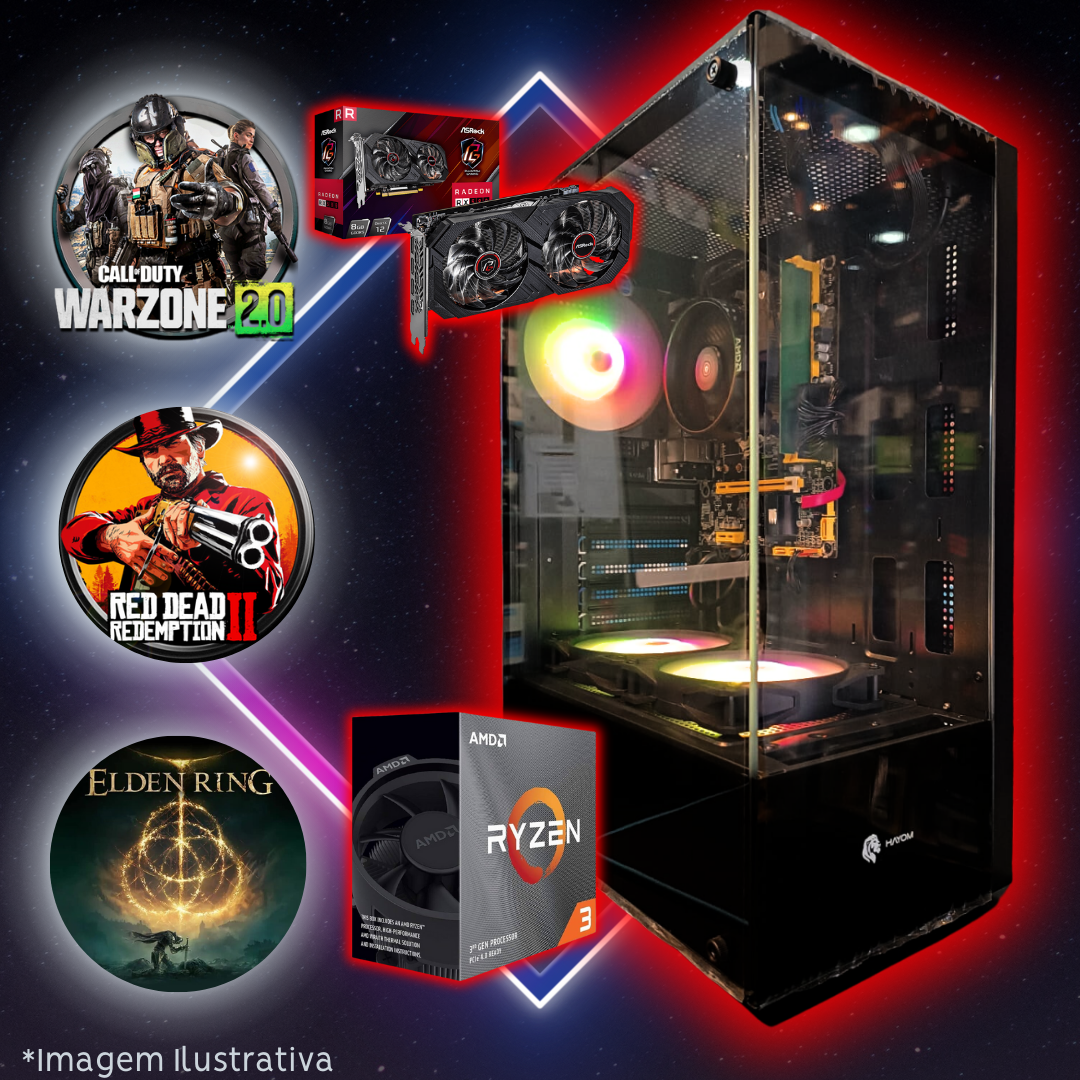
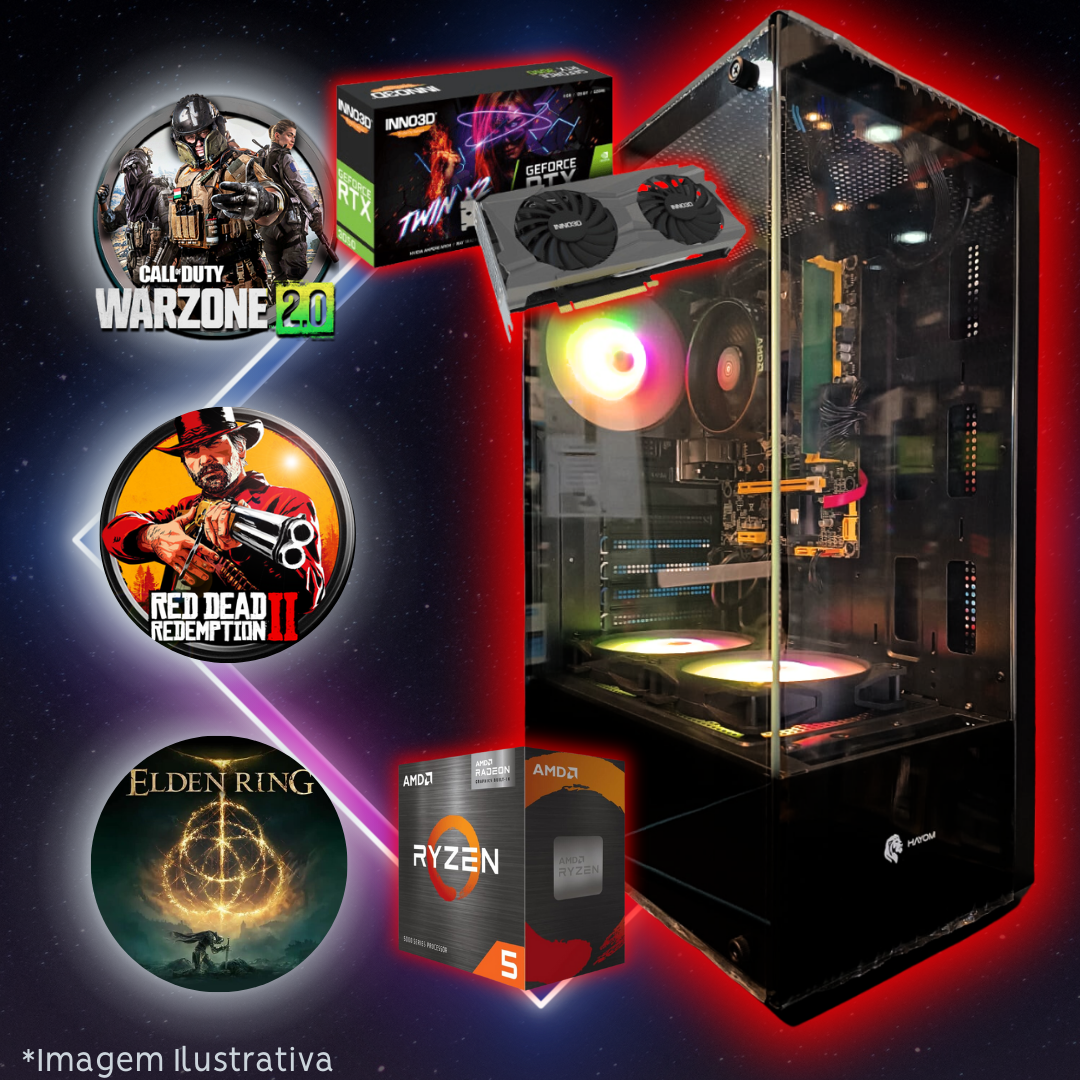
Setup Ryzen 4500 + RTX 3050 ADDED

diff --git a/src/routes/setup/+page.svelte b/src/routes/setup/+page.svelte
@@ -51,23 +51,30 @@
       text: "💥 LEAGUE OF LEGENDS\n🌎 MINECRAFT\n🟥 ROBLOX\n🔫 VALORANT\n🔫 CSGO 2\n🔫 WARZONE\n🦙 FORTNITE\n\n*Placa Mãe:* A520\n*Processador:* RYZEN 5 4500\n*Memória RAM:* 2x8GB(16GB) DDR4\n*Placa de Vídeo:* GTX 1650 4GB\n*Armazenamento:* SSD 480GB\n*Gabinete:* GAMER C/ 3 FANS RGB RGB FRONTAIS\n*Fonte:* 500W\n+ 🖥 Monitor de 17' POL. *NOVO*\n+ Kit Gamer(Teclado, Mouse, Mousepad e Headset)\n\nPOR APENAS *R$ 4.260,00* em até 10x sem juros!"
     },
 
+    // R$ 5.290,00
+    {
+      title: "Nº8 - SETUP RYZEN 4500 + RTX 3050 6GB",
+      image: "SETUP-5290.png",
+      text: "💥 LEAGUE OF LEGENDS\n🌎 MINECRAFT\n🟥 ROBLOX\n🔫 VALORANT\n🔫 WARZONE\n🔫 CSGO 2\n🦙 FORTNITE\n 🐎Red Dead Redemption 2\n🗡Elden Ring\n\n*Processador:* RYZEN 5 4500\n*Placa Mãe:* A520\n*Memória RAM:* 16GB DDR4 2666Hz\n*Placa de Vídeo:* RTX 3050 6GB\n*Armazenamento:* SSD 480GB\n*Gabinete:* GAMER C/ 3 FANS RGB FRONTAIS\n*Fonte:* 500W\n +🖥 MONITOR (LC0042) 19' 75Hz Bluecase\n + KIT Gamer Completo(Teclado, Headset, Mouse e Mousepad)\n\nPOR APENAS *R$ 5.290,00* em até 10x sem juros!",
+    },
+
     // R$7.990,00
     {
-      title: "Nº8 - 🖱SETUP GAMER RYZEN 5 5600",
+      title: "Nº9 - 🖱SETUP GAMER RYZEN 5 5600",
       image: "SETUP-7990.png",
       text: "💥 LEAGUE OF LEGENDS\n🌎 MINECRAFT\n🟥 ROBLOX\n🔫 VALORANT\n🔫 WARZONE\n🔫 CSGO 2\n🦙 FORTNITE\n\n*Processador:* RYZEN 5 5600\n*Placa Mãe:* B450MX\n*Memória RAM:* 1x16GB DDR4 Fury Beast RGB\n*Placa de Vídeo:* RTX 3060 12GB\n*Armazenamento:* SSD 480GB\n*Gabinete:* GAMER C/ 3 FANS RGB FRONTAIS\n*Fonte:* 550W 80PLUS\n+ 🖥 Monitor de 19' Pol. 75Htz\n+ + Kit Gamer(Teclado, Mouse, Mousepad e Headset)\n\nPOR APENAS *R$ 7.990,00* em até 10x sem juros!",
     },
 
     // R$11.190,00
     {
-      title: "Nº9 - 🖱SETUP GAMER RYZEN 5 4500",
+      title: "Nº10 - 🖱SETUP GAMER RYZEN 5 4500",
       image: "SETUP-11190.png",
       text: "💥 FREE FIRE\n🌎 ARK SURVIVE\n🔫 GTA RP\n🔫 VALORANT\n🔫 CSGO 2\n🔫 WARZONE\n🦙 FORTNITE\n\n*Placa Mãe:* Duex B550\n*Prcessador:* RYZEN 5 4500\n*Memória RAM:* 2x8GB(16GB) DDR4 RISE MODE 3200Mhz\n*Placa de Vídeo:* RTX 3050 6GB\n*Armazenamento:* SSD 480GB\n*Gabinete:* GAMER Fortrek C/ 3 FANS RGB FRONTAIS Controláveis\n*Fonte:* 500W Branca\n+ 🖥 Monitor de 27' POL. REDRAGON 180Gtz *BRANCO* PLANO & MONITOR 23,6'' BLUECASE CURVO 100Htz(Acompanha SUPORTE P/2 MONITOR EVOLUT)\n+ Kit Gamer(Teclado, Mouse e Headset)\nSUPORTE MESA C/LED HUB USB 3.0\n\nPOR APENAS *R$ 11.190,00* em até 10x sem juros!"
     },
 
     // R$11.490,00
     {
-      title: "Nº10 - SETUP GAMER RYZEN 5 5500 COMPLETO",
+      title: "Nº11 - SETUP GAMER RYZEN 5 5500 COMPLETO",
       image: "SETUP-11490.png",
       text: "🪓 God Of War\n🌎 ARK SURVIVE\n🟥 GTA RP\n🔫 VALORANT\n🔫 CSGO 2\n🔫 WARZONE\n🦙 FORTNITE\n\n*Processador:* RYZEN 5 5500\n*Placa Mãe:*  B450 ASUS - 4 BANCOS MEMORIA\n*Memória RAM:* 2x8GB DDR4 REDRAGON  3200Mhz\n*WATER COOLER 240MM*\n*Placa de Vídeo:* RTX 4060Ti 8GB INNO3D\n*Armazenamento:* NVME 512GB\n*Gabinete* GAMER NZXT 2 FANS BLACK\n*Fonte:* 700W 80PLUS\n\n+ 🖥 Monitor REDRAGON 27' POL 165hz CURVO\n\n+*KIT GAMER:*\n- TECLADO REDRAGON FIZZ PRO 60% (COM KEYCAPS VERMELHAS)\n- MOUSE GAMER AOC AGM700\n- HEADSET REDRAGON MINOS BLACK\n- MICROFONE REDRAGON BLAZAR\n- MOUSEPAD FORTREK COURO\n\nPOR APENAS R$ 11.490,00 em até 10x sem juros!"
     },
